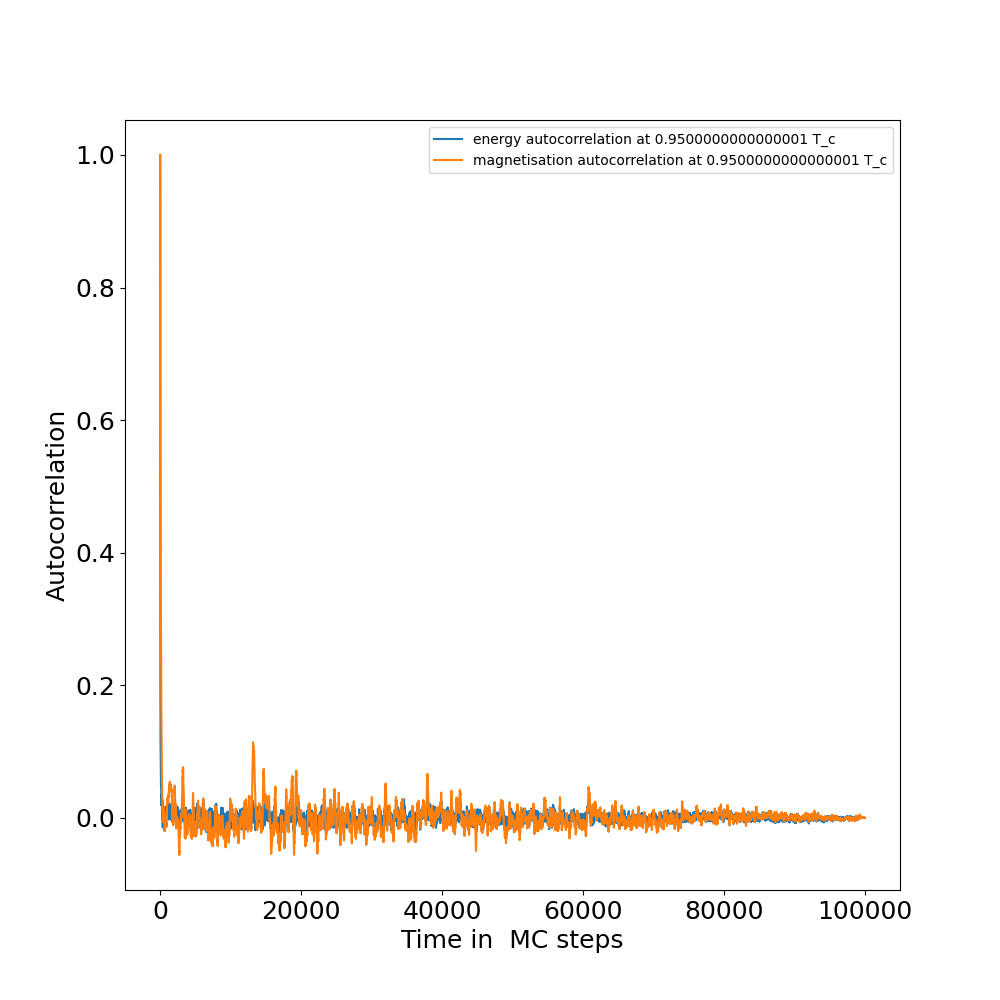
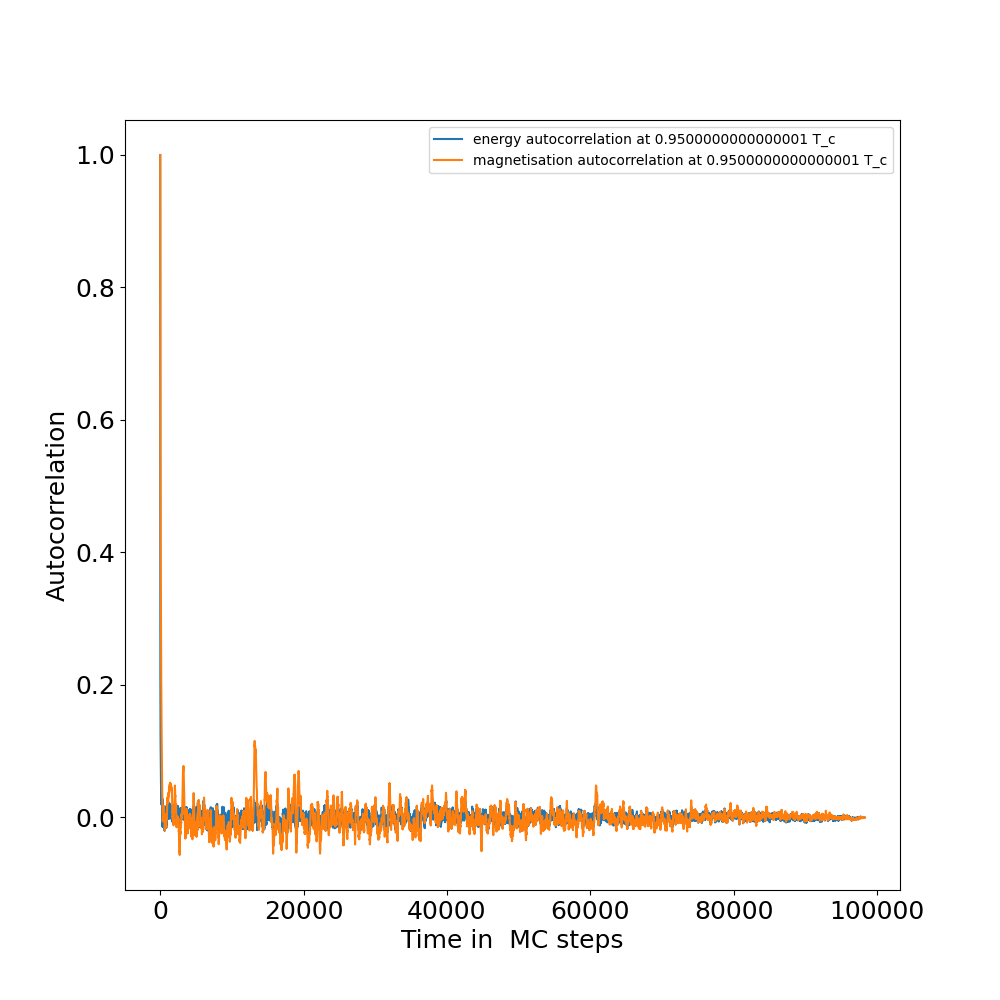
- evaluated observable in .txt files for ising for side 50 - corrected error with auto correlation time

diff --git a/Block 1/Exercise_5/ising2d_analysis.py b/Block 1/Exercise_5/ising2d_analysis.py
@@ -5,6 +5,7 @@ import matplotlib.pyplot as plt
 import matplotlib.colors as mcolors
 from statsmodels.tsa.stattools import acf
 from scipy.optimize import curve_fit
+from statsmodels.graphics.tsaplots import plot_acf
 import ising_2d as ising
 
 plt.rcParams.update({'font.size': 18}) # global font parameter for plots
@@ -34,8 +35,7 @@ LENGTH = 50
 #    print(f"Is magnetization weakly stationary at T = {1/beta/CRITICAL_TEMP} T_c ? : {ising.is_weakly_stationary(magnetisation_per_spin[i][3000:])}")
 #    print("-----------------------------------------------------------------------------------------------------------")
 
-t_equilibrium = 2000 # LENGTH = 50
-lags_list = [100000, 100000, 1000000, 100000] # LENGTH = 50
+t_equilibrium_list = [ 500, 1700, 8000, 50 ] # LENGTH = 50 
 
 energy = np.zeros(len(BETA_LIST))
 error_energy = np.zeros(len(BETA_LIST))
@@ -48,6 +48,8 @@ error_magnetic_suscept = np.zeros(len(BETA_LIST))
 
 energy_autocorrelation = np.empty(len(BETA_LIST), dtype=object)
 magnetisation_autocorrelation = np.empty(len(BETA_LIST), dtype=object)
+tau_energy_autocorrelation_int = np.zeros(len(BETA_LIST))
+tau_magnetisation_autocorrelation_int = np.zeros(len(BETA_LIST))
 tau_energy_autocorrelation = np.zeros(len(BETA_LIST))
 tau_magnetisation_autocorrelation = np.zeros(len(BETA_LIST))
 lags_cutoff_energy= np.zeros(len(BETA_LIST))
@@ -57,62 +59,68 @@ lags_cutoff_magn= np.zeros(len(BETA_LIST))
 
 def set_cutoff(exponential):
     counter = 0
-    while exponential[counter] > 1/np.e:
+    while exponential[counter] > 1/3*np.e:
         counter+=1
     return int(counter)
 
 def exponential_decay(t, tau):
     return np.exp(-t / tau)
 
-for j, beta in enumerate(BETA_LIST):
-    #energy_autocorrelation[j] = np.zeros(lags_list[j])
-    #magnetisation_autocorrelation[j] = np.zeros(lags_list[j])
-    energy_autocorrelation[j] = np.zeros(MC_TIMESTEPS)
-    magnetisation_autocorrelation[j] = np.zeros(MC_TIMESTEPS)
-    energy_autocorrelation[j] = acf(energy_per_spin[j], nlags = MC_TIMESTEPS)
-    magnetisation_autocorrelation[j] = acf(magnetisation_per_spin[j], nlags = MC_TIMESTEPS)
-    # set lag cutoff
-    lags_cutoff_energy[j]=set_cutoff(energy_autocorrelation[j])
-    lags_cutoff_magn[j]=set_cutoff(magnetisation_autocorrelation[j])
-    tau_energy_autocorrelation[j] = 1/2 + np.sum(energy_autocorrelation[j][:int(lags_cutoff_energy[j])]) # integrated autocorrelation time definition + cutoff
-    tau_magnetisation_autocorrelation[j] = 1/2 + np.sum(magnetisation_autocorrelation[j][:int(lags_cutoff_magn[j])])
-    time_lags = np.arange(MC_TIMESTEPS)
-    popt_energy, _ = curve_fit(exponential_decay, time_lags, energy_autocorrelation[j], p0=(10,))
-    tau_fit_energy = popt_energy[0]
-    popt_magn, _ = curve_fit(exponential_decay, time_lags, magnetisation_autocorrelation[j], p0=(10,))
-    tau_fit_magnetisation = popt_magn[0]
-    
-    print(f"At T = {1/beta/CRITICAL_TEMP} T_c, for a square lattice of side {LENGTH}, tau energy autocorrelation = {tau_energy_autocorrelation[j] } (in MC timesteps)")
-    print(f"At T = {1/beta/CRITICAL_TEMP} T_c, for a square lattice of side {LENGTH}, tau magnetisation autocorrelation = {tau_magnetisation_autocorrelation[j] } (in MC timesteps) ")
-    print(f"  Tau energy (fit)       = {tau_fit_energy} (in MC timesteps)")
-    print(f"  Tau magnetisation (fit)       = {tau_fit_magnetisation} (in MC timesteps)")
-    print("-----------------------------------------------------------------------------------------------------------------------------------")
 
-for j, beta in enumerate(BETA_LIST):
-    time = np.arange(0, MC_TIMESTEPS, 1)
-    plt.figure(figsize=(10, 10))
-    plt.plot(time, energy_autocorrelation[j], label = f"energy autocorrelation at {1/beta/CRITICAL_TEMP} T_c")
-    plt.plot(time, magnetisation_autocorrelation[j], label = f"magnetisation autocorrelation at {1/beta/CRITICAL_TEMP} T_c")
-    plt.xlabel(f"Time in  MC steps")
-    plt.ylabel("Autocorrelation")
-    plt.legend(fontsize = 10)
-    #plt.yscale('log')
-    image_name = f"observables_autocorrelation_temp{1/beta/CRITICAL_TEMP:.2f}T_c_dimension{LENGTH}.png"
-    entire_path = os.path.join(report_path, exercise_folder, image_name)
-    plt.savefig(entire_path)
-    plt.close()
-    #plt.show()
+with open (os.path.join(file_path, f"data_analysis_{LENGTH}.txt"), "w") as file:
+    print("-----------------------------------------------------------------------------------------------------------------------------------", file=file)
+    for j, beta in enumerate(BETA_LIST):
+        energy_autocorrelation[j] = np.zeros(MC_TIMESTEPS-t_equilibrium_list[j])
+        magnetisation_autocorrelation[j] = np.zeros(MC_TIMESTEPS-t_equilibrium_list[j])
+        energy_autocorrelation[j] = acf(energy_per_spin[j][t_equilibrium_list[j]:], nlags = MC_TIMESTEPS-t_equilibrium_list[j])
+        magnetisation_autocorrelation[j] = acf(magnetisation_per_spin[j][t_equilibrium_list[j]:], nlags = MC_TIMESTEPS-t_equilibrium_list[j])
+        # set lag cutoff
+        lags_cutoff_energy[j]=set_cutoff(energy_autocorrelation[j])
+        lags_cutoff_magn[j]=set_cutoff(magnetisation_autocorrelation[j])
+        tau_energy_autocorrelation_int[j] = 1/2 + np.sum(energy_autocorrelation[j][:int(lags_cutoff_energy[j])]) # integrated autocorrelation time definition + cutoff
+        tau_magnetisation_autocorrelation_int[j] = 1/2 + np.sum(magnetisation_autocorrelation[j][:int(lags_cutoff_magn[j])])
+        time_lags = np.arange(MC_TIMESTEPS-t_equilibrium_list[j])
+        popt_energy, pcov_energy  = curve_fit(exponential_decay, time_lags, energy_autocorrelation[j], p0=(10,))
+        tau_energy_autocorrelation[j] = popt_energy[0]
+        tau_fit_energy_error = np.sqrt(np.diag(pcov_energy))[0]
+        popt_magn, pcov_magn = curve_fit(exponential_decay, time_lags, magnetisation_autocorrelation[j], p0=(10,))
+        tau_magnetisation_autocorrelation[j] = popt_magn[0]
+        tau_fit_magn_error = np.sqrt(np.diag(pcov_magn))[0]
+        print(f"tau equilibrium = {t_equilibrium_list[j]}", file=file)
+        print(f"At T = {1/beta/CRITICAL_TEMP} T_c, for a square lattice of side {LENGTH}, tau energy autocorrelation = {tau_energy_autocorrelation_int[j] } (in MC timesteps)", file=file)
+        print(f"At T = {1/beta/CRITICAL_TEMP} T_c, for a square lattice of side {LENGTH}, tau magnetisation autocorrelation = {tau_magnetisation_autocorrelation_int[j] } (in MC timesteps) ", file=file)
+        print(f"  Tau energy (fit)         = {tau_energy_autocorrelation[j]} +- {tau_fit_energy_error} (in MC timesteps)", file=file)
+        print(f"  Tau magnetisation (fit)  = {tau_magnetisation_autocorrelation[j]} +- {tau_fit_magn_error} (in MC timesteps)", file=file)
+        print("-----------------------------------------------------------------------------------------------------------------------------------", file=file)
 
-#for j, beta in enumerate(BETA_LIST):
-#    energy[j] = ising.mean_value_observable_equilibrium(energy_per_spin[j], t_equilibrium, MC_TIMESTEPS)
-#    error_energy[j] = ising.error_observable_equilibrium(energy_per_spin[j], t_equilibrium, MC_TIMESTEPS)
-#    magnetisation[j] = ising.mean_value_observable_equilibrium(magnetisation_per_spin[j], t_equilibrium, MC_TIMESTEPS)
-#    error_magnetisation[j] = ising.error_observable_equilibrium(magnetisation_per_spin[j], t_equilibrium, MC_TIMESTEPS)  
-#    heat_capacity[j] = ising.heat_capacity(ising.variance_observable_equilibrium(energy_per_spin[j], t_equilibrium, MC_TIMESTEPS), 1/beta/CRITICAL_TEMP)
-#    magnetic_suscept[j] = ising.magnetic_susceptibility(LENGTH, beta, ising.variance_observable_equilibrium(magnetisation_per_spin[j], t_equilibrium, MC_TIMESTEPS))
-#    print(f"At T = {1/beta/CRITICAL_TEMP} T_c, for a square lattice of side {LENGTH}, energy = {energy[j]} +- {error_energy[j]}")
-#    print(f"At T = {1/beta/CRITICAL_TEMP} T_c, for a square lattice of side {LENGTH}, magnetisation = {magnetisation[j]} +- {error_magnetisation[j]}")
-#    print(f"At T = {1/beta/CRITICAL_TEMP} T_c, for a square lattice of side {LENGTH}, heat capacity = {heat_capacity[j]}")
-#    print(f"At T = {1/beta/CRITICAL_TEMP} T_c, for a square lattice of side {LENGTH}, magnetic susceptibility = {magnetic_suscept[j]}")
+    for j, beta in enumerate(BETA_LIST):
+        time_lags = np.arange(MC_TIMESTEPS-t_equilibrium_list[j])
+        plt.figure(figsize=(10, 10))
+        plt.plot(time_lags, energy_autocorrelation[j], label = f"energy autocorrelation at {1/beta/CRITICAL_TEMP} T_c")
+        plt.plot(time_lags, magnetisation_autocorrelation[j], label = f"magnetisation autocorrelation at {1/beta/CRITICAL_TEMP} T_c")
+        plt.xlabel(f"Time in  MC steps")
+        plt.ylabel("Autocorrelation")
+        plt.legend(fontsize = 10)
+        #plt.yscale('log')
+        image_name = f"observables_autocorrelation_temp{1/beta/CRITICAL_TEMP:.2f}T_c_dimension{LENGTH}.png"
+        entire_path = os.path.join(report_path, exercise_folder, image_name)
+        plt.savefig(entire_path)
+        plt.close()
+        #plt.show()
+
+    print("--------------- Observables evaluation", file=file)    
+    print("-----------------------------------------------------------------------------------------------------------------------------------", file=file)
+    for j, beta in enumerate(BETA_LIST):
+        energy[j] = ising.mean_value_observable_equilibrium(energy_per_spin[j], t_equilibrium_list[j], MC_TIMESTEPS)
+        error_energy[j] = ising.error_observable_corr_equilibrium(energy_per_spin[j], t_equilibrium_list[j], MC_TIMESTEPS, tau_energy_autocorrelation[j])
+        magnetisation[j] = ising.mean_value_observable_equilibrium(magnetisation_per_spin[j], t_equilibrium_list[j], MC_TIMESTEPS)
+        error_magnetisation[j] = ising.error_observable_corr_equilibrium(magnetisation_per_spin[j], t_equilibrium_list[j], MC_TIMESTEPS, tau_magnetisation_autocorrelation[j])  
+        heat_capacity[j] = ising.heat_capacity(ising.variance_observable_equilibrium(energy_per_spin[j], t_equilibrium_list[j], MC_TIMESTEPS), 1/beta/CRITICAL_TEMP)
+        magnetic_suscept[j] = ising.magnetic_susceptibility(LENGTH, beta, ising.variance_observable_equilibrium(magnetisation_per_spin[j], t_equilibrium_list[j], MC_TIMESTEPS))
+        print(f"At T = {1/beta/CRITICAL_TEMP} T_c, for a square lattice of side {LENGTH}, energy = {energy[j]} +- {error_energy[j]}", file=file)
+        print(f"At T = {1/beta/CRITICAL_TEMP} T_c, for a square lattice of side {LENGTH}, magnetisation = {magnetisation[j]} +- {error_magnetisation[j]}", file=file)
+        print(f"At T = {1/beta/CRITICAL_TEMP} T_c, for a square lattice of side {LENGTH}, heat capacity = {heat_capacity[j]}", file=file)
+        print(f"At T = {1/beta/CRITICAL_TEMP} T_c, for a square lattice of side {LENGTH}, magnetic susceptibility = {magnetic_suscept[j]}", file=file)
+        print("-----------------------------------------------------------------------------------------------------------------------------------", file=file)
 
 # %%

diff --git a/Block 1/Exercise_5/ising_2d.py b/Block 1/Exercise_5/ising_2d.py
@@ -121,6 +121,13 @@ def variance_observable_equilibrium(observable, t_equilibrium, t_max):
 def error_observable_equilibrium(observable, t_equilibrium, t_max):
     return np.sqrt(variance_observable_equilibrium(observable, t_equilibrium, t_max) / (t_max - t_equilibrium))
 
+def variance_observable_corr_equilibrium(observable, t_equilibrium, t_max, tau):
+    tmp = (1 + 2 * tau)/(t_max - t_equilibrium) * np.sum(observable[t_equilibrium : t_max]**2)
+    return tmp - mean_value_observable_equilibrium(observable, t_equilibrium, t_max)**2
+
+def error_observable_corr_equilibrium(observable, t_equilibrium, t_max, tau):
+    return np.sqrt(variance_observable_corr_equilibrium(observable, t_equilibrium, t_max, tau) / (t_max - t_equilibrium))
+
 def heat_capacity(energy_variance, temperature):
     return energy_variance / temperature**2
 
